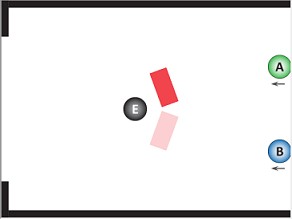
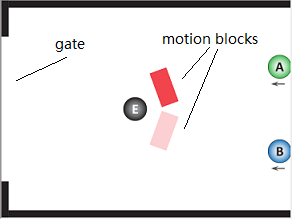
change arrows

diff --git a/public/static/lib/causal_expectations.js b/public/static/lib/causal_expectations.js
@@ -35,7 +35,10 @@ var position;
 var pA;
 var pB;
 
+// for arrows
 var hack3 = [];
+var pos_arrow = 1;
+
 
 //START FUNCTION
 function SetupWorld(){
@@ -471,6 +474,7 @@ function createArrow(w, h, x, y, linx, liny, type, userData, img){
     objectPositions[clip][3] = objectPositions[clip][3]*(-1);
     objectPositions[clip][5] = 6-objectPositions[clip][1];
     objectPositions[clip][7] = objectPositions[clip][3]*(-1);
+    pos_arrow = -1;
     // bodies[4].SetUserData("bottomBlock");
     // bodies[5].SetUserData("topBlock");
   } // causal chain and single causation - control
@@ -526,7 +530,6 @@ function createArrow(w, h, x, y, linx, liny, type, userData, img){
     var vy = Math.abs(objectPositions[clip][v_pos[i+1]]);
     //var vx = objectPositions[clip][v_pos[i]];
     //var vy = objectPositions[clip][v_pos[i+1]];
-
     if (vx == 0 && vy == 0) {
       // out of the screen
       hack3[i] = -10;
@@ -534,9 +537,9 @@ function createArrow(w, h, x, y, linx, liny, type, userData, img){
     }
     else {
       //hack3[i] = objectPositions[clip][v_pos[i]-2] + (0.4/(vx+vy))*vy;
-      hack3[i] = (0.4/(vx+vy))*(vx-vy);
+      hack3[i] = objectPositions[clip][v_pos[i]-2]+objectPositions[clip][v_pos[i]]/2-(0.4/(vx+vy))*(vx-vy);
       //hack3[i] = 0.3
-      hack3[i+1] = 0.4;
+      hack3[i+1] = objectPositions[clip][v_pos[i]-1]+objectPositions[clip][v_pos[i+1]]+0.4;
     }
   }
   //console.log(hack3);
@@ -598,6 +601,13 @@ function createArrow(w, h, x, y, linx, liny, type, userData, img){
     "arrowB", //userdata 
     "static/images/arrow.png")
 
+    // disjunctive or conjunctive
+    if (clip == 0 || clip == 1) {
+      bodies[9].SetAngle(-pos_arrow*20*Math.PI/180);
+      bodies[10].SetAngle(pos_arrow*20*Math.PI/180);
+    }
+    
+
 
   
   //ADD CONTACT LISTENER
@@ -638,20 +648,33 @@ function animateWorld()
     var actor = actors[i];
     var p = body.GetPosition();
     var usr = body.GetUserData();
-    if (usr == "arrowA" || usr == "arrowB") {
-      var p_ball = bodies[i-3].GetPosition();
-      actor.x = (p_ball.x - ((usr=="arrowA")?hack3[0]:hack3[2]))*ratio*scale;
-      actor.y = (p_ball.y + ((usr=="arrowA")?hack3[1]:hack3[3]))*ratio*scale;
-    }
-    else {
+    //if (usr == "arrowA" || usr == "arrowB") {
+      //var p_ball = bodies[i-3].GetPosition();
+      //actor.x = (p_ball.x - ((usr=="arrowA")?hack3[0]:hack3[2]))*ratio*scale;
+      //actor.y = (p_ball.y + ((usr=="arrowA")?hack3[1]:hack3[3]))*ratio*scale;
+    //  actor.x = ((usr=="arrowA")?hack3[0]:hack3[2])*ratio*scale;
+    //  actor.y = ((usr=="arrowA")?hack3[1]:hack3[3])*ratio*scale;
+    //}
+    //else {
       actor.x = p.x * ratio* scale;
       actor.y = p.y * ratio* scale;
-    }
+    //}
     actor.rotation = body.GetAngle() * 180 / Math.PI;    
   }
 
-  counter++
-  
+  counter++;
+  // for arrows, disappear after some ms
+  if(counter == 40) {
+    world.DestroyBody(bodies[10]);
+    world.DestroyBody(bodies[9]);
+    // disappear if the trial is a whole video clip
+    if (duration > 150) {
+      stage.removeChild(actors[10]);
+      stage.removeChild(actors[9]);
+    }
+  }
+
+
   //end of clip
   if (counter == duration){
     // modify to solve the arrow

diff --git a/src/App.vue b/src/App.vue
@@ -13,7 +13,8 @@
 
     <InstructionScreen :title="'Instructions'">
       In this experiment, you will see pictures or video clips of <span style='color:#3EA333;font-weight:bold'>Ball A</span>, 
-      <span style='color:#2662E0;font-weight:bold'>Ball B</span> and <b>Ball E</b>. Also, there are one or two red motion blocks.
+      <span style='color:#2662E0;font-weight:bold'>Ball B</span> and <b>Ball E</b>. Also, there are one or two red motion blocks. 
+      The balls and blocks are surrounded by walls. There is a gate on the left side that allows balls to pass through.
       <br />
       <br />
       There will be an arrow below the initially moving ball(s). The light red block has a 20% chance to blocking a ball, while the dark red block has an 80% chance. 
@@ -60,7 +61,7 @@
       Congratuations! Now you can continue with the main part of the experiment.
       <br />
       <br />
-      In this section, you will pictures or video clips just like during the practice trial. 
+      In this section, you will see pictures or video clips just like during the practice trial. 
       You will see two sentences for each picture or video.
       <strong>Your task is to choose the sentence which better describes the situation.</strong> 
       There might not be a correct answer.
